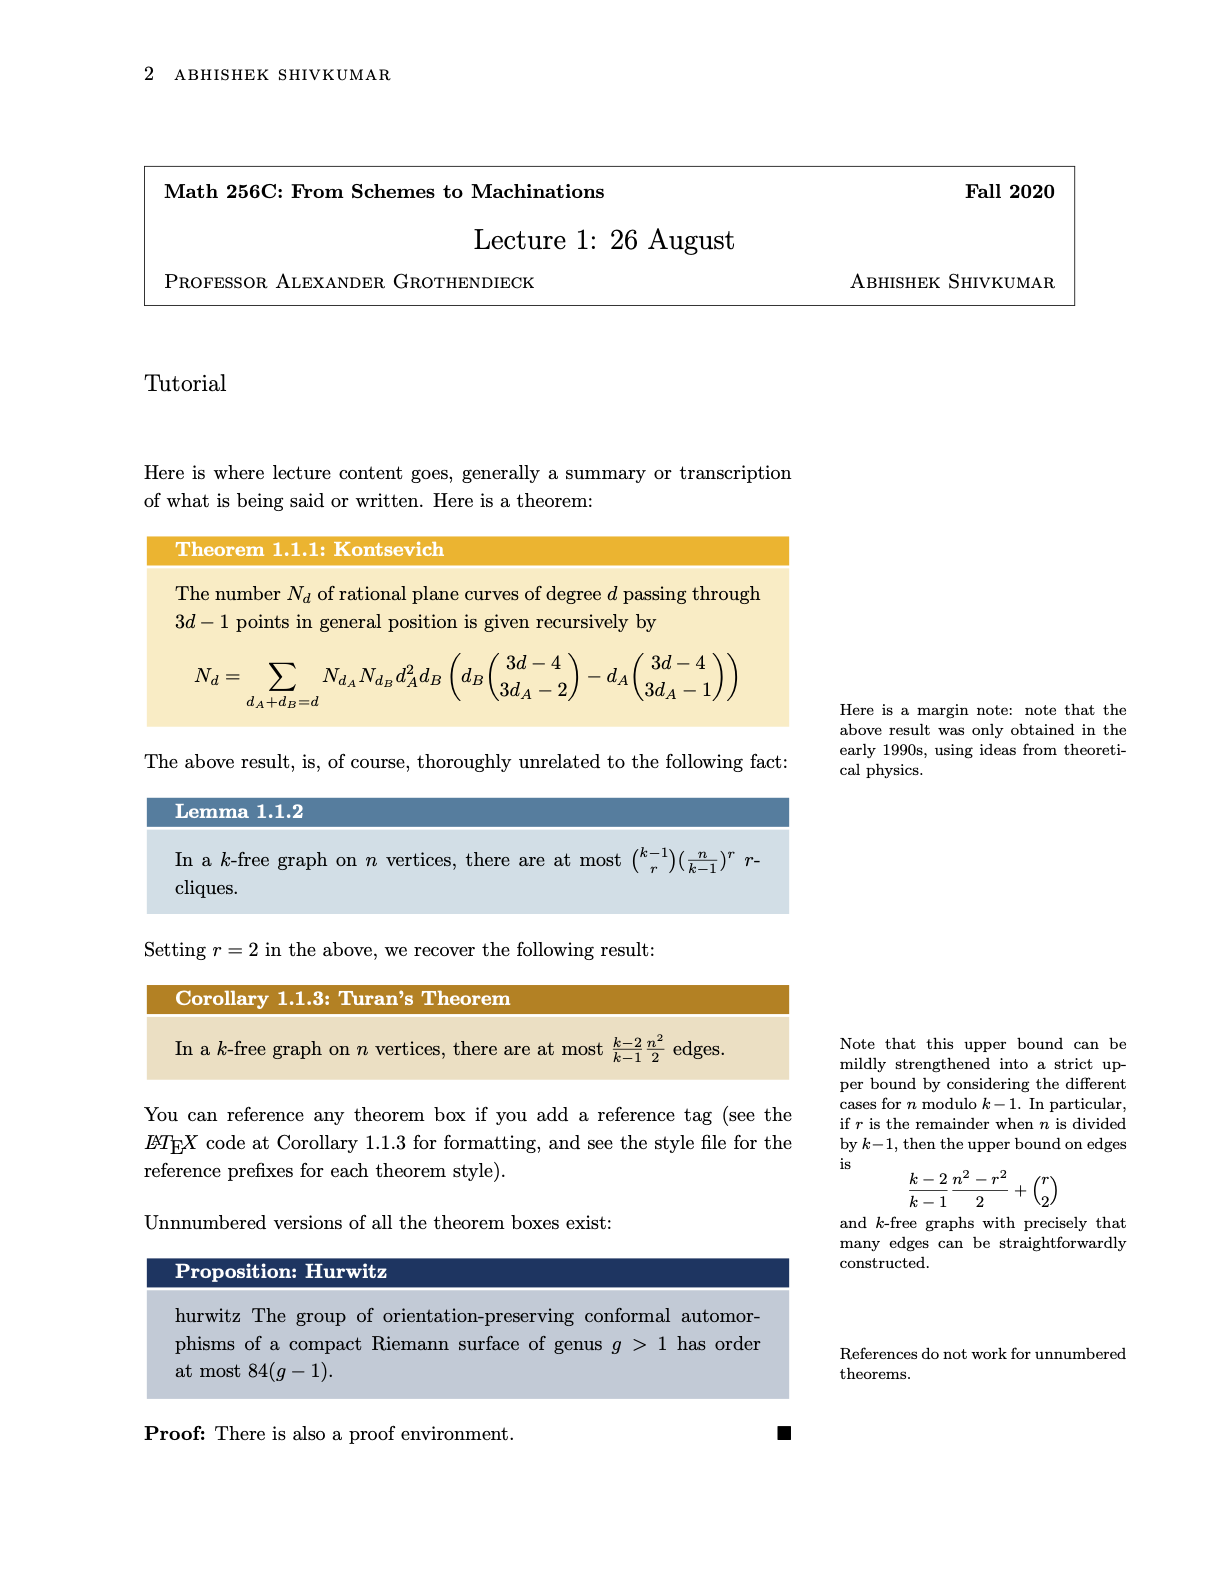
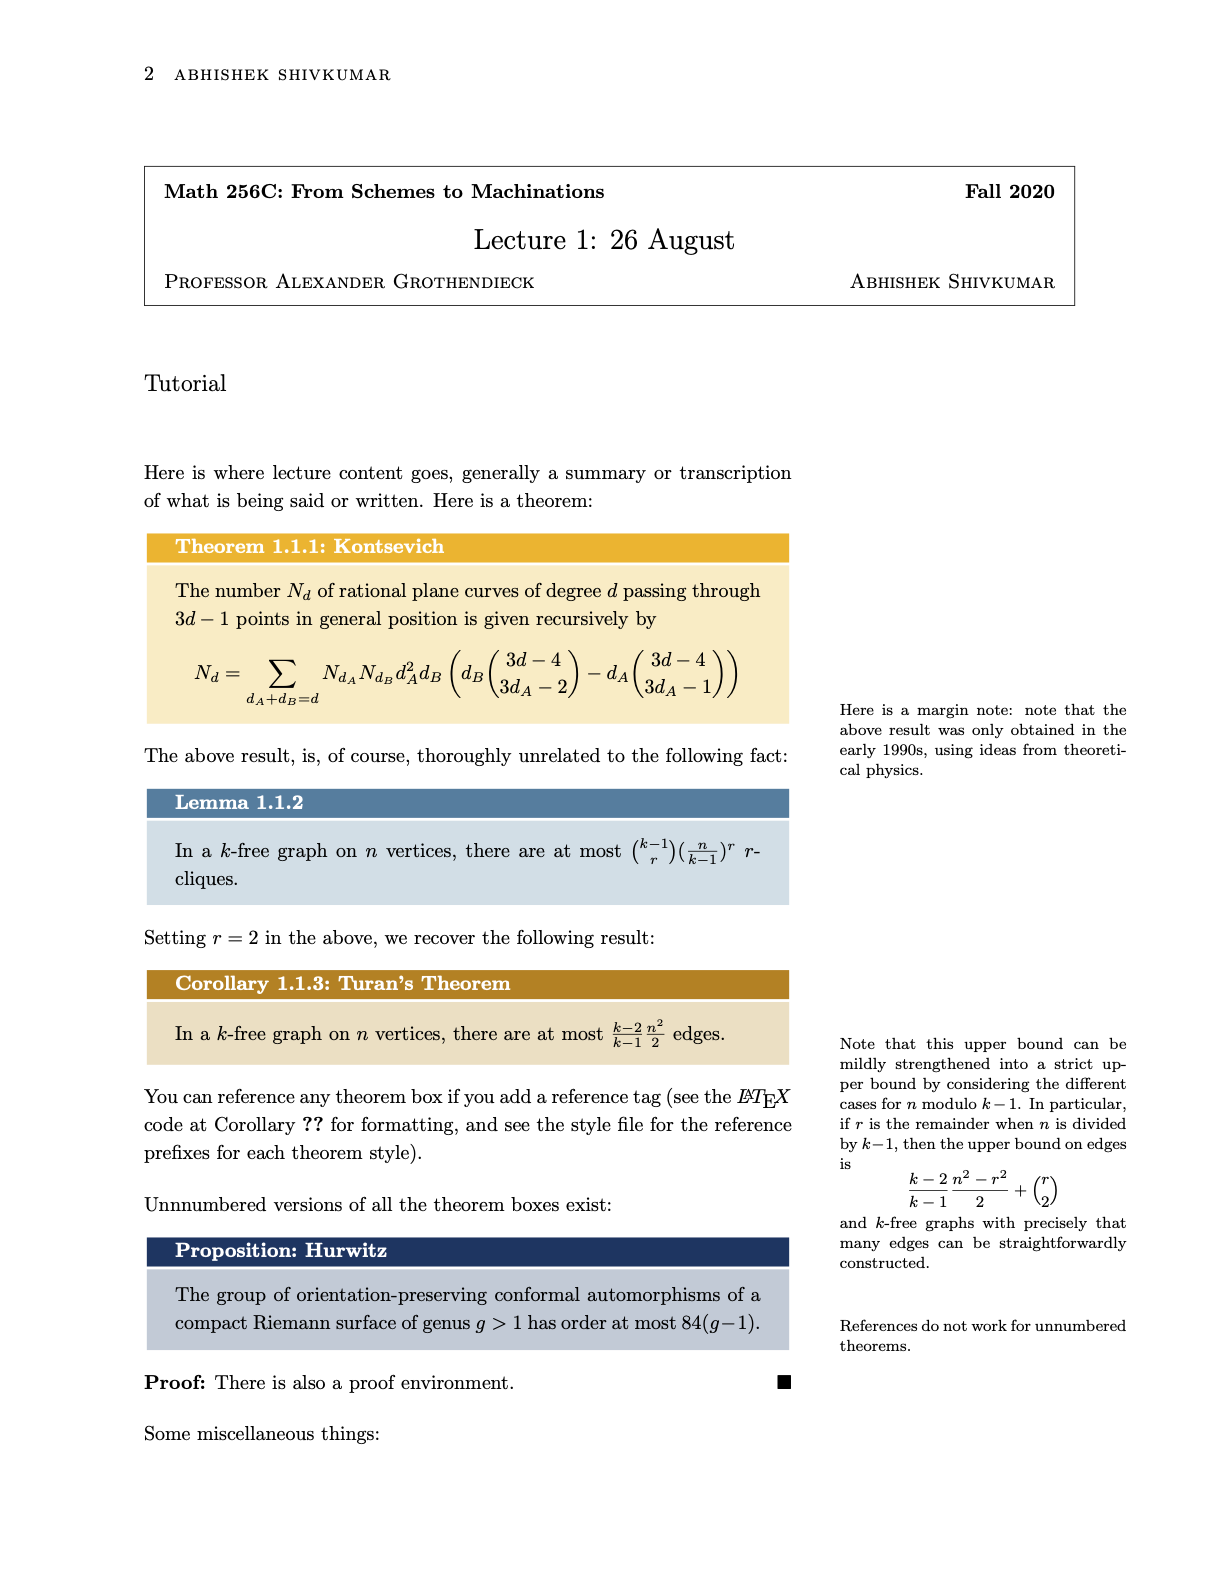
Fixed spacing issue

Changed region(s): [[0.0931, 0.3403, 0.652, 0.928], [0.683, 0.8352, 0.9314, 0.8662]]

diff --git a/sample.tex b/sample.tex
@@ -49,7 +49,7 @@ Setting $r=2$ in the above, we recover the following result:
 You can reference any theorem box if you add a reference tag (see the $\LaTeX$ code at Corollary~\ref{cor:hereyouputthetagforreferences} for formatting, and see the style file for the reference prefixes for each theorem style).
 
 Unnnumbered versions of all the theorem boxes exist:
-\begin{proposition*}[Hurwitz][hurwitz]
+\begin{proposition*}[Hurwitz]
     The group of orientation-preserving conformal automorphisms of a compact Riemann surface of genus $g > 1$ has order at most $84(g-1)$.
 \end{proposition*}
 \marginnote{References do not work for unnumbered theorems.}
